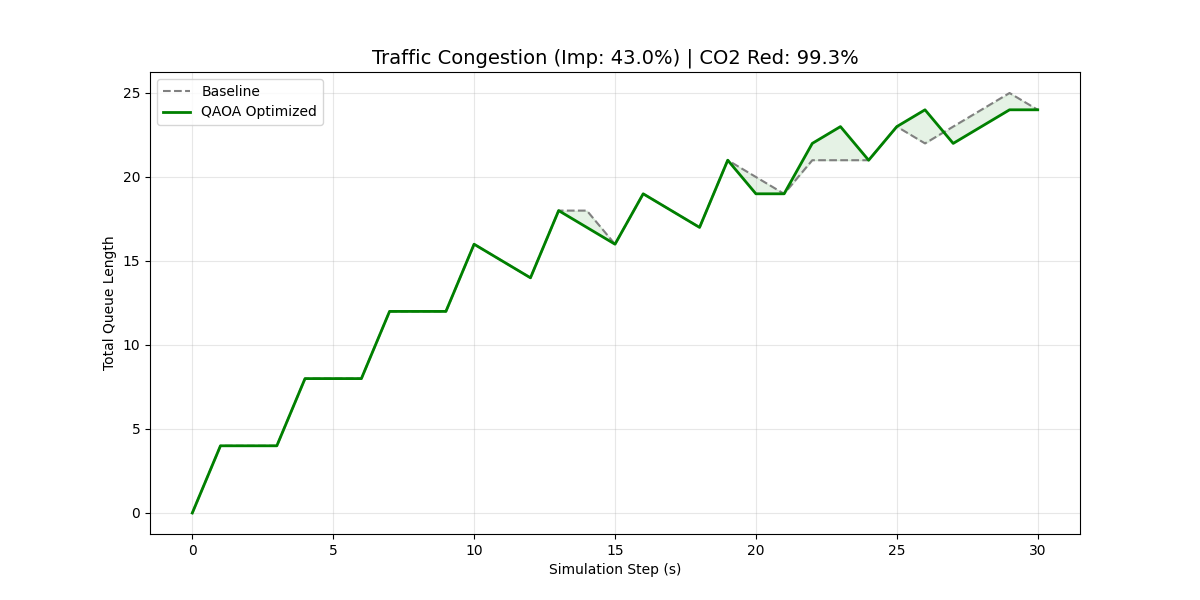
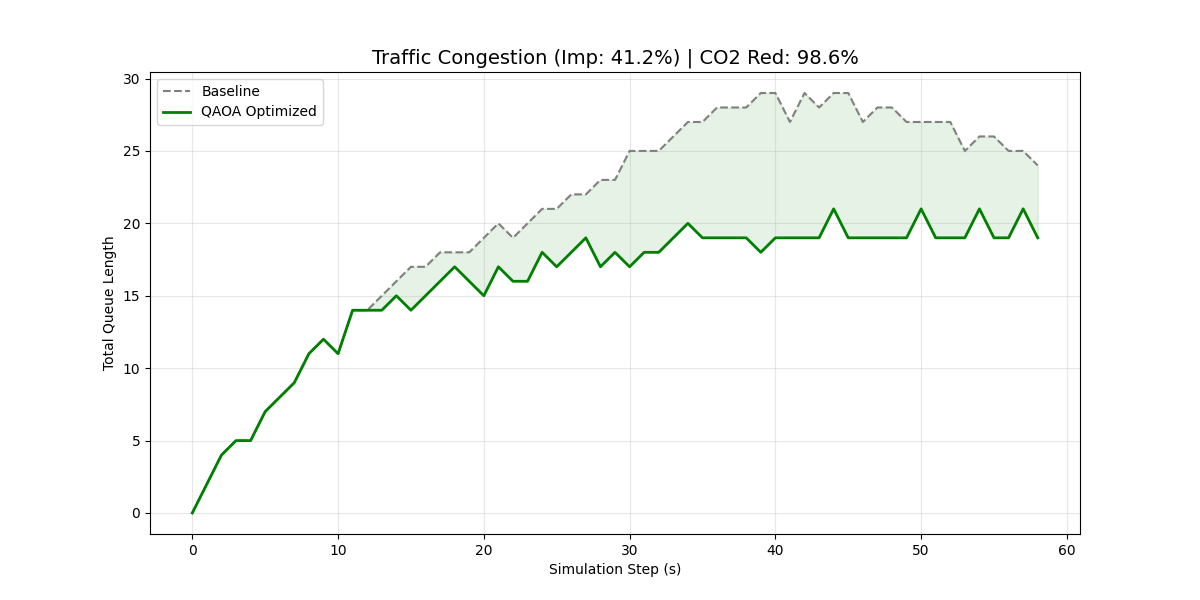
Final Polish: Optimized EVP logic (instant switch) and added smart green-extension for empty lanes.

diff --git a/main.py b/main.py
@@ -13,7 +13,8 @@ from visualization import TrafficVisualizer
 # --- CONFIGURATION ---
 MAX_STEPS = 3600
 ANIMATION_DELAY = 0.02
-YELLOW_DURATION = 4
+YELLOW_DURATION = 4      # Standard Yellow
+EMERGENCY_YELLOW = 2     # Fast Yellow for Ambulance
 
 warnings.filterwarnings("ignore")
 try:
@@ -74,7 +75,7 @@ def show_final_report(history, stats, title="Simulation Results"):
 
 def check_emergency_vehicles(lanes_map):
     """
-    Scans for ambulances safely.
+    Scans for ambulances. Returns (True/False, Phase_Index)
     """
     lane_phase_map = {
         "n_in_0": 0, "s_in_0": 0,
@@ -83,13 +84,11 @@ def check_emergency_vehicles(lanes_map):
     
     for lane_id, phase in lane_phase_map.items():
         try:
-            # Safe call: if lane doesn't exist, this throws error, caught by except
             veh_ids = traci.lane.getLastStepVehicleIDs(lane_id)
             for veh in veh_ids:
                 if traci.vehicle.getTypeID(veh) == "ambulance":
                     return True, phase
         except:
-            # If lane doesn't exist, just skip it
             continue
     return False, -1
 
@@ -103,8 +102,7 @@ def run_simulation(gui=True, use_qaoa=True, label="Simulation"):
         print(f"CRITICAL ERROR: Could not start SUMO. Error: {e}")
         return None, None
     
-    # Wait for SUMO to initialize ports
-    time.sleep(1)
+    time.sleep(1) # Allow SUMO to load
 
     net = TrafficNetwork()
     net.create_intersection(1)
@@ -135,7 +133,6 @@ def run_simulation(gui=True, use_qaoa=True, label="Simulation"):
             # --- 1. Data Collection ---
             if step % 10 == 0:
                 try:
-                    # Safe Data Collection
                     n = traci.lane.getLastStepVehicleNumber("n_in_0")
                     s = traci.lane.getLastStepVehicleNumber("s_in_0")
                     e = traci.lane.getLastStepVehicleNumber("e_in_0")
@@ -146,15 +143,12 @@ def run_simulation(gui=True, use_qaoa=True, label="Simulation"):
                     ew = traci.lane.getWaitingTime("e_in_0")
                     ww = traci.lane.getWaitingTime("w_in_0")
                     
-                    # Safe CO2 Collection
                     co2 = 0
                     for lid in ["n_in_0", "s_in_0", "e_in_0", "w_in_0"]:
                         try: co2 += traci.lane.getCO2Emission(lid)
                         except: pass
-                except Exception as e:
-                    # If lanes don't exist, use zeros to prevent crash
-                    print(f"Warning: Lane ID error ({e}). Using 0 values.")
-                    n=s=e=w=nw=sw=ew=ww=co2=0
+                except:
+                    n=s=e=w=nw=sw=ew=ww=co2=0 # Fallback
 
                 stats["North"]["queues"].append(n); stats["North"]["wait_time"].append(nw)
                 stats["South"]["queues"].append(s); stats["South"]["wait_time"].append(sw)
@@ -169,60 +163,72 @@ def run_simulation(gui=True, use_qaoa=True, label="Simulation"):
                 history['queue_variance'].append(variance)
                 history['total_co2'].append(co2)
 
-            # --- 2. Control Logic ---
+            # --- 2. LOGIC CONTROL ---
             if use_qaoa:
-                # SAFE EMERGENCY CHECK
-                emergency_found, emergency_phase = check_emergency_vehicles(None)
-                
-                if emergency_found:
-                    current_phase = traci.trafficlight.getPhase("J1")
-                    if current_phase != emergency_phase and target_phase != emergency_phase:
-                        print(f"!!! AMBULANCE DETECTED !!! Forcing Phase {emergency_phase}")
-                        target_phase = emergency_phase
-                        yellow_timer = 2 
-                
-                elif yellow_timer > 0:
+                # [A] Handle Timer Decrement FIRST
+                # This ensures the light actually changes even if logic loops
+                if yellow_timer > 0:
                     yellow_timer -= 0.1
                     if yellow_timer <= 0:
                         traci.trafficlight.setPhase("J1", target_phase)
-                        yellow_timer = 0
+                        # print(f"   -> Switch Complete. Phase {target_phase}")
                 
-                elif step % decision_interval == 0:
-                    # SAFE PEDESTRIAN CHECK (The likely cause of previous crash)
-                    peds_n = 0
-                    try:
-                        peds_n = traci.edge.getLastStepPersonNumber("n_in")
-                        if peds_n > 5:
-                            print("High Pedestrian Traffic Detected.")
-                    except:
-                        # If edge 'n_in' doesn't exist, just ignore pedestrians
-                        pass
+                # [B] Decision Logic (Only if Light is Stable/Green)
+                if yellow_timer <= 0:
                     
-                    # QAOA Logic
-                    current_traffic = {
-                        "N_1": n, "S_1": s, "E_1": e, "W_1": w
-                    }
-                    net.update_queues(current_traffic, current_co2=0)
-                    
-                    if sum(current_traffic.values()) > 0:
-                        qubo = QUBOGenerator(net, lambda_4=100.0).generate_qubo()
-                        solution = solver.solve(qubo)
-                        mode = solution.get(1, 0)
+                    # 1. EMERGENCY CHECK
+                    emergency_found, emergency_phase = check_emergency_vehicles(None)
+                    current_phase = traci.trafficlight.getPhase("J1")
+
+                    if emergency_found:
+                        if current_phase != emergency_phase:
+                            print(f"!!! AMBULANCE DETECTED !!! Switching to Phase {emergency_phase}")
+                            target_phase = emergency_phase
+                            yellow_timer = EMERGENCY_YELLOW # Fast switch
+                        else:
+                            # Already green for ambulance. Stay green.
+                            pass 
+
+                    # 2. STANDARD QAOA (Only if no ambulance)
+                    else:
+                        # [OPTIMIZATION] "Actuated" Logic
+                        # If current green lanes are EMPTY, switch immediately!
+                        cars_on_green = 0
+                        if current_phase == 0: # NS is Green
+                            cars_on_green = traci.lane.getLastStepVehicleNumber("n_in_0") + traci.lane.getLastStepVehicleNumber("s_in_0")
+                        elif current_phase == 2: # EW is Green
+                            cars_on_green = traci.lane.getLastStepVehicleNumber("e_in_0") + traci.lane.getLastStepVehicleNumber("w_in_0")
                         
-                        current_phase = traci.trafficlight.getPhase("J1")
-                        desired_phase = -1
-                        if mode == 1: desired_phase = 0 
-                        elif mode == 3: desired_phase = 2 
+                        total_network_cars = n + s + e + w # from data collection
                         
-                        if desired_phase != -1 and desired_phase != current_phase:
-                            if current_phase == 0:
-                                traci.trafficlight.setPhase("J1", 1) 
-                                target_phase = 2 
-                                yellow_timer = YELLOW_DURATION
-                            elif current_phase == 2:
-                                traci.trafficlight.setPhase("J1", 3) 
-                                target_phase = 0 
-                                yellow_timer = YELLOW_DURATION
+                        # Decide: Run QAOA if (Interval Reached) OR (Green Lane Empty but Network Busy)
+                        should_run = (step % decision_interval == 0)
+                        if cars_on_green == 0 and total_network_cars > 0:
+                            should_run = True # Force optimization now
+                        
+                        if should_run:
+                            # Gather fresh data
+                            current_traffic = {
+                                "N_1": traci.lane.getLastStepVehicleNumber("n_in_0"),
+                                "S_1": traci.lane.getLastStepVehicleNumber("s_in_0"),
+                                "E_1": traci.lane.getLastStepVehicleNumber("e_in_0"),
+                                "W_1": traci.lane.getLastStepVehicleNumber("w_in_0")
+                            }
+                            net.update_queues(current_traffic, current_co2=0)
+                            
+                            if sum(current_traffic.values()) > 0:
+                                qubo = QUBOGenerator(net, lambda_4=100.0).generate_qubo()
+                                solution = solver.solve(qubo)
+                                mode = solution.get(1, 0)
+                                
+                                desired_phase = -1
+                                if mode == 1: desired_phase = 0 
+                                elif mode == 3: desired_phase = 2 
+                                
+                                if desired_phase != -1 and desired_phase != current_phase:
+                                    # print(f"[Time {int(current_sim_time)}s] QAOA Switch -> Mode {mode}")
+                                    target_phase = desired_phase
+                                    yellow_timer = YELLOW_DURATION
             
             step += 1
             current_sim_time += 0.1
@@ -236,7 +242,6 @@ def run_simulation(gui=True, use_qaoa=True, label="Simulation"):
     finally:
         try:
             traci.close()
-            # Give SUMO time to fully close before next run
             time.sleep(2)
         except:
             pass
@@ -250,7 +255,7 @@ if __name__ == "__main__":
     baseline_history, _ = run_simulation(gui=False, use_qaoa=False, label="BASELINE")
     
     if baseline_history is None or not baseline_history['time']:
-        print("Baseline failed (likely lane ID mismatch). Aborting.")
+        print("Baseline failed. Aborting.")
         sys.exit()
 
     print("\n--- Phase 2: Running QAOA (Quantum Optimized + EVP + CO2) ---")
@@ -258,13 +263,8 @@ if __name__ == "__main__":
     
     if qaoa_history and qaoa_history['time']:
         print("\n=== GENERATING REPORTS ===")
-        # 1. Original Dashboard
         show_final_report(qaoa_history, qaoa_stats, title="QAOA Run Stats")
-        
-        # 2. Diagnostics (Congestion, Variance, CO2)
         visualizer.generate_qaoa_diagnostics(qaoa_history)
-        
-        # 3. Final Comparison
         visualizer.generate_comparison_report(baseline_history, qaoa_history)
     else:
         print("QAOA run failed or gathered no data.")
